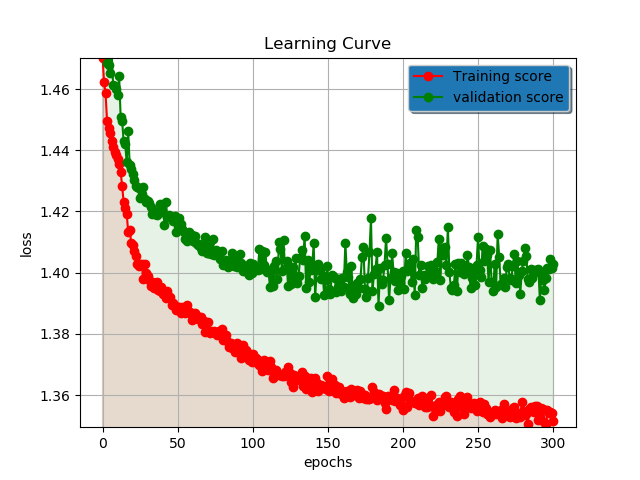
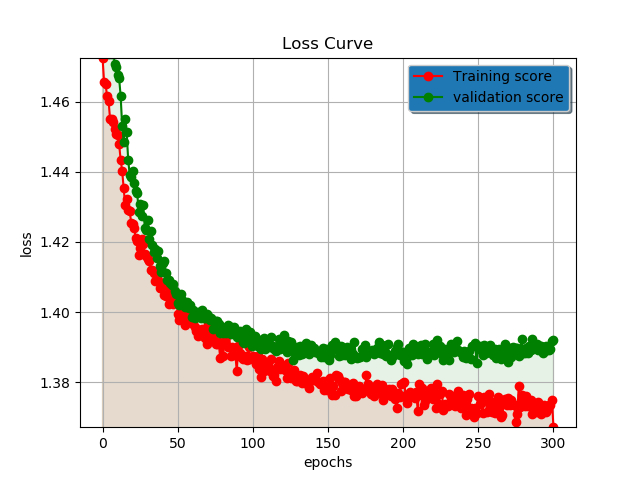
Added another dropout layer after the 2nd hidden layer

diff --git a/training/HyperOptimization.py b/training/HyperOptimization.py
@@ -31,7 +31,7 @@ def pet_finder_model(x_train,y_train,x_test,y_test,params):
     model.add(Dense(params['num_Nodes'], input_dim=n, activation='sigmoid', kernel_initializer='random_uniform'))
     model.add(Dropout(params['dropout']))
     model.add(Dense(params['num_Nodes'], activation='sigmoid', kernel_initializer='random_uniform'))
-    model.add(Dense(5, activation=best_params['final_activation'], kernel_initializer='random_uniform',))
+    model.add(Dense(5, activation=params['final_activation'], kernel_initializer='random_uniform',))
     model.compile(optimizer=Adam(lr=params['lr'],decay=1e-8), loss=params['loss_function'], metrics=['accuracy'])
 
     # Train
@@ -39,7 +39,7 @@ def pet_finder_model(x_train,y_train,x_test,y_test,params):
     return out, model
 
 
-scan_object = ta.Scan(x=x_train, y=y_train,x_val=x_test,y_val=y_test,params=parameters,model=pet_finder_model, experiment_name='pet_finder')
+scan_object = ta.Scan(x=x_train, y=y_train,x_val=x_test,y_val=y_test, params=parameters,model=pet_finder_model, experiment_name='pet_finder')
 # Evaluate
 analyze_object = ta.Analyze(scan_object)
 scan_data = analyze_object.data

diff --git a/training/create_neural_network.py b/training/create_neural_network.py
@@ -8,6 +8,7 @@ def create_network(lr=0.0066,num_Nodes=18, dropout=0.3,final_activation='sigmoid
     model.add(Dense(num_Nodes, input_dim=n, activation='sigmoid', kernel_initializer='random_uniform'))
     model.add(Dropout(dropout))
     model.add(Dense(num_Nodes, activation='sigmoid', kernel_initializer='random_uniform'))
+    model.add(Dropout(dropout))
     model.add(Dense(5, activation=final_activation, kernel_initializer='random_uniform'))
     model.compile(optimizer=Adam(learning_rate=lr), loss=loss, metrics=['accuracy'])
     return model
